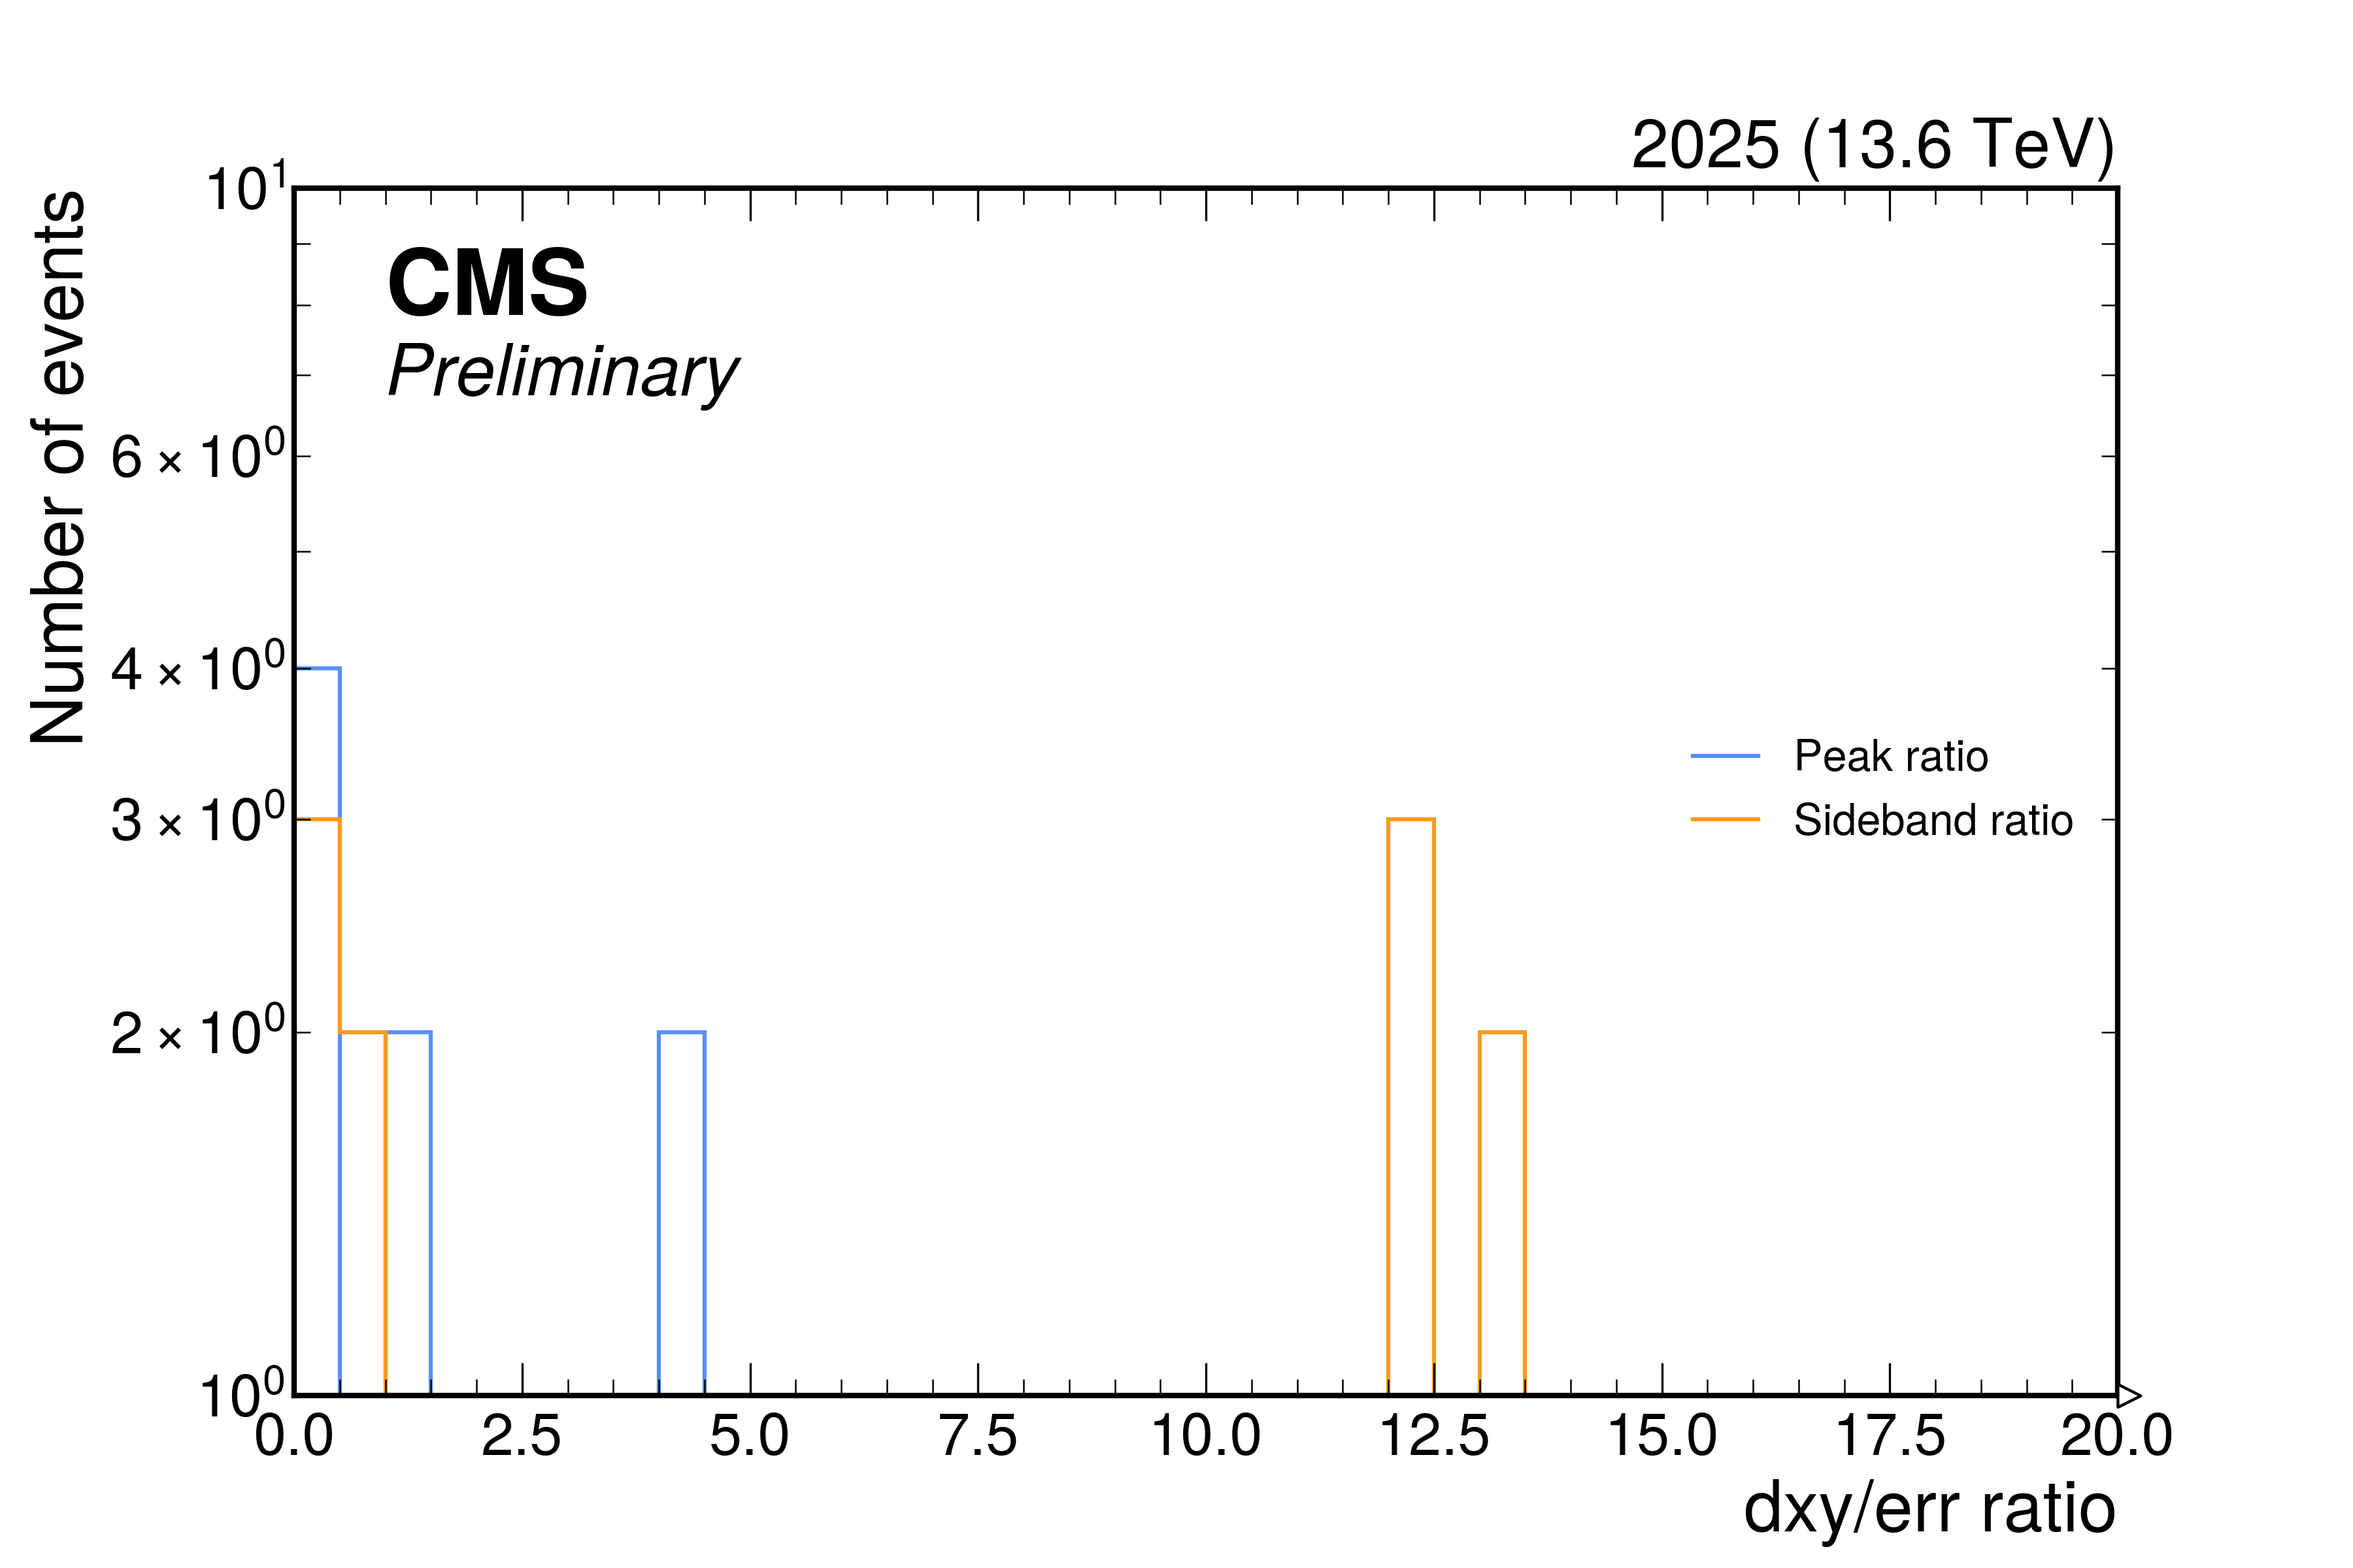
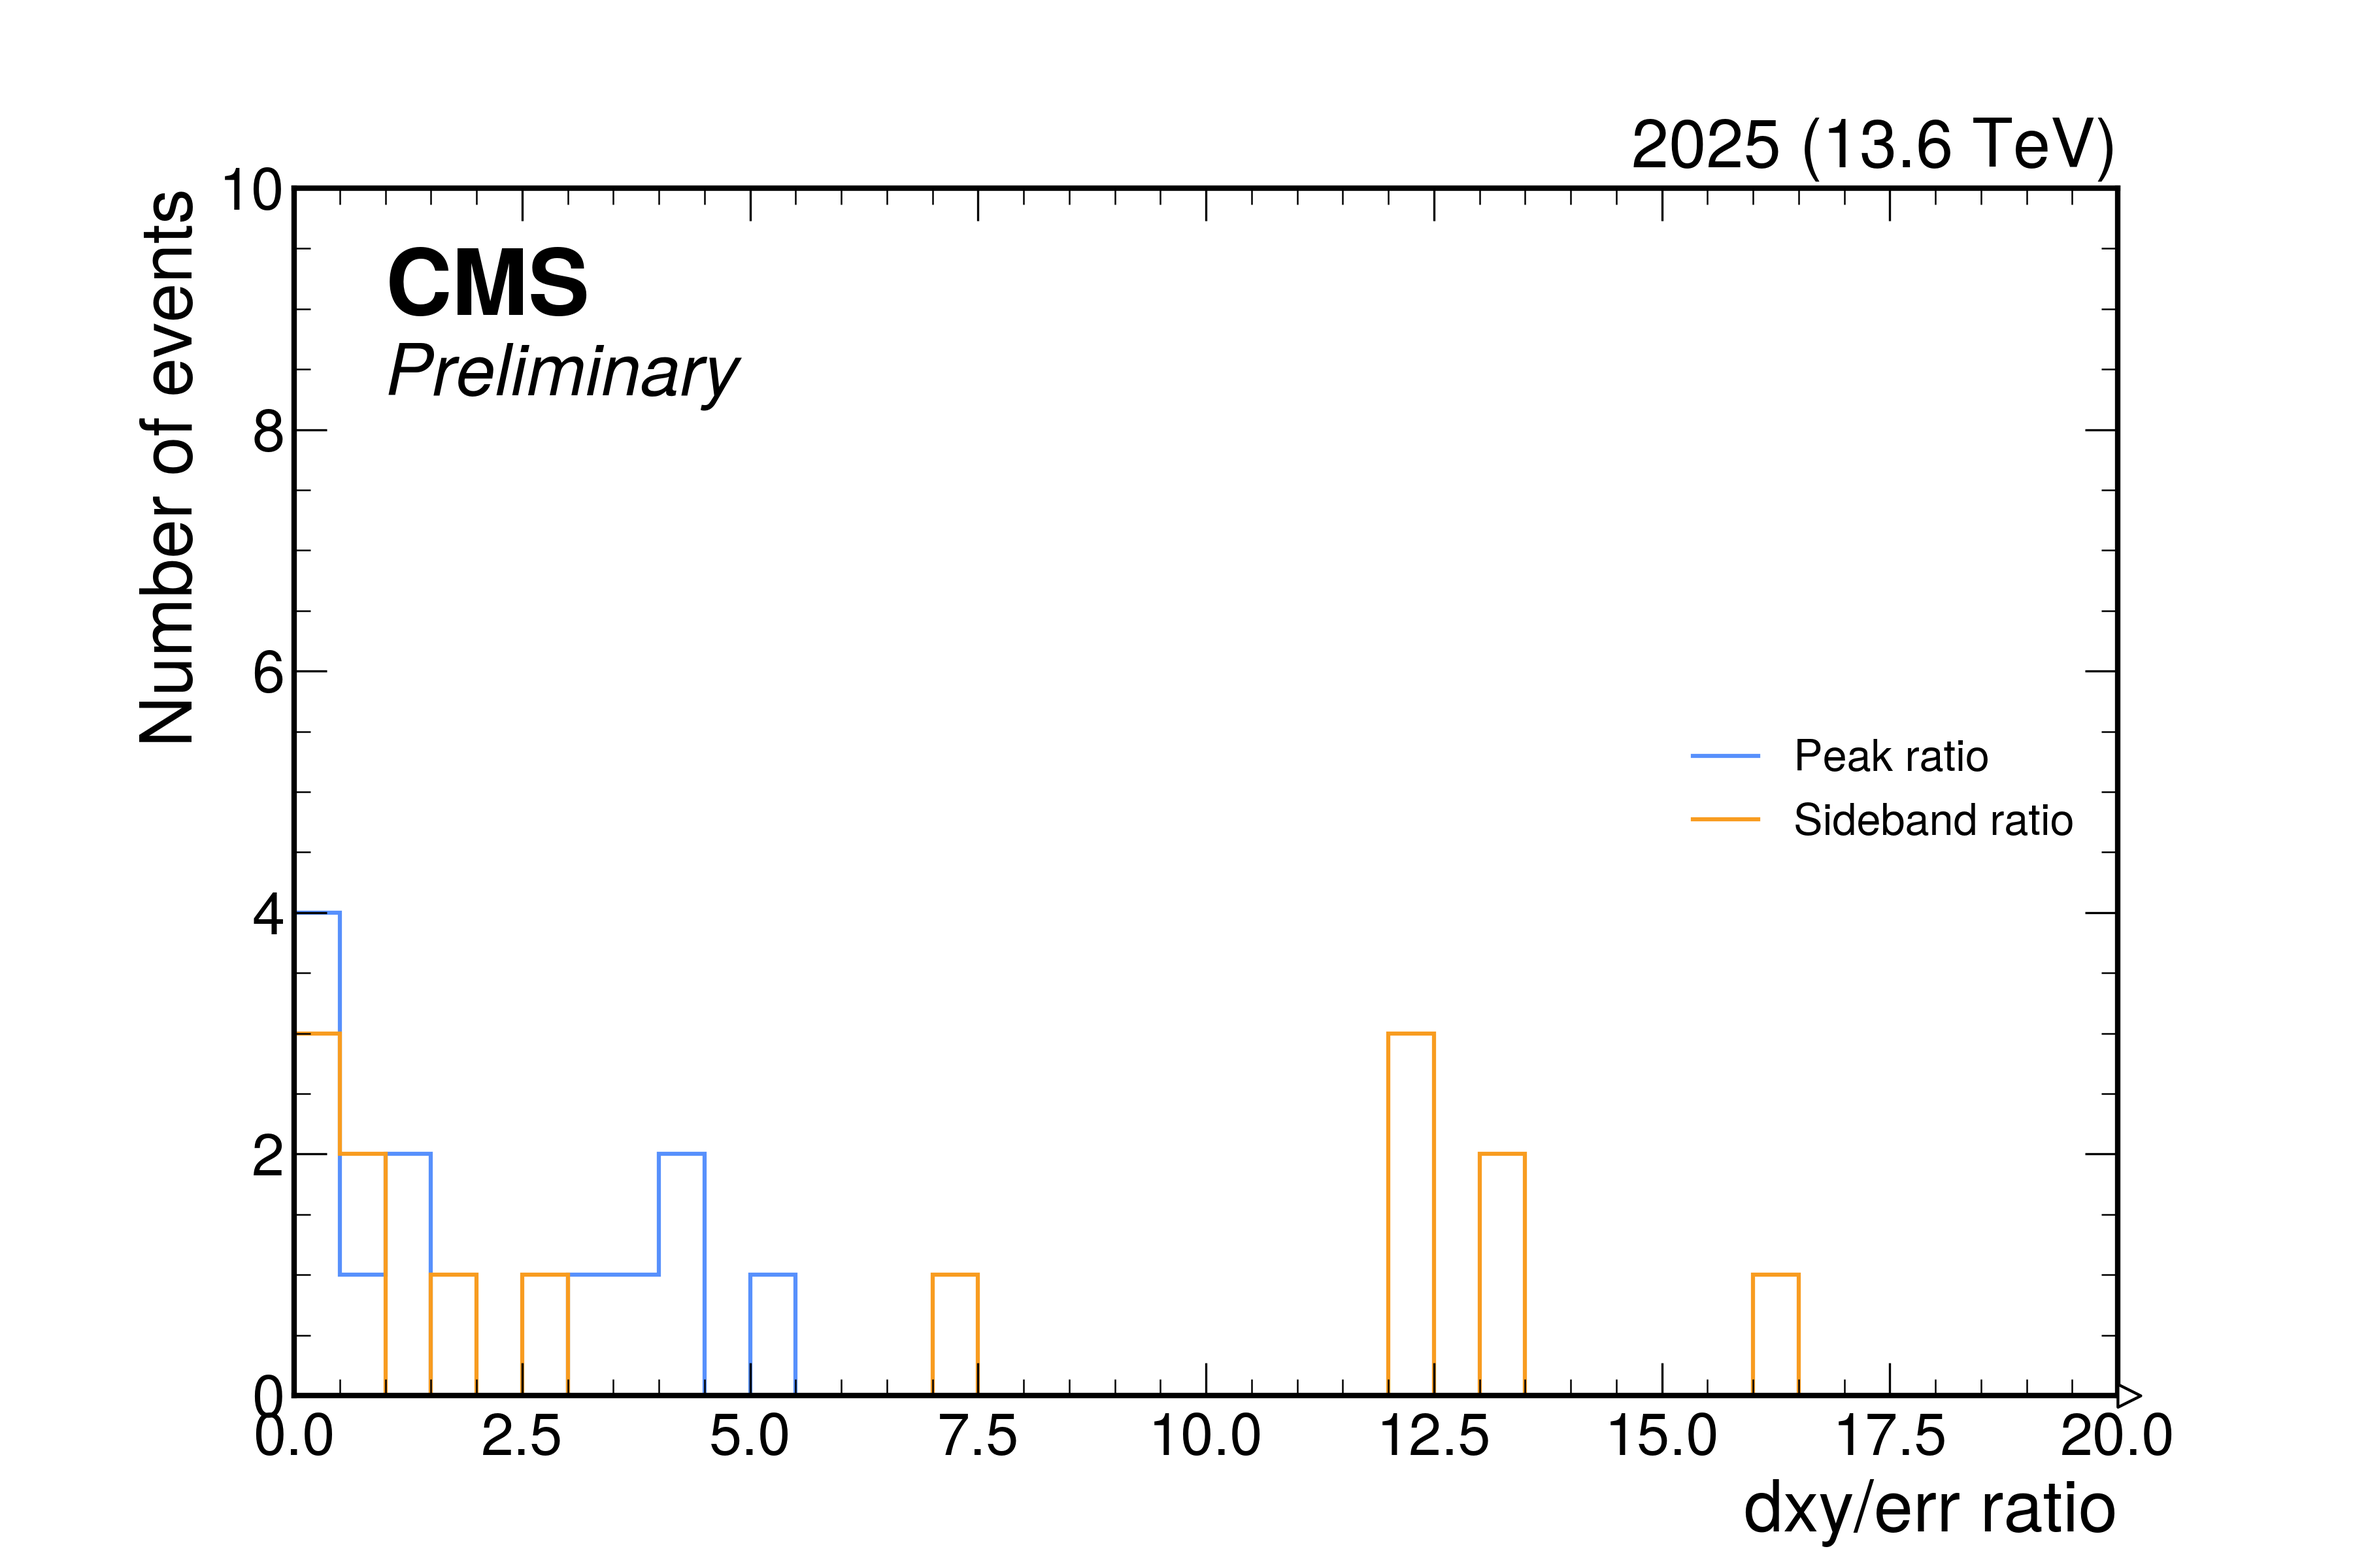
Change to lin scale

diff --git a/draw.py b/draw.py
@@ -196,7 +196,7 @@ for value in ratioValues:
     h_ratio_pk.fill(ratio_pk=value)
 hep.histplot(h_ratio_pk, ax=ax, label="Peak ratio", yerr=False)
 
-yMin = 1
+yMin = 0
 yMax = 10**np.ceil(np.log10(h_ratio_pk.values().max()))
 
 ratioValues = np.abs(sidebands_bin_values)/sidebands_err_values
@@ -213,8 +213,7 @@ print(sidebands_err_values)
 ax.set_ylim(yMin, yMax)
 ax.set_xlabel("dxy/err ratio")
 ax.set_ylabel("Number of events")
-ax.set_yscale("log")
 ax.legend(loc='center right', fontsize = 16, frameon = False, ncol=1)
 # ax.set_xscale("log")
-ax.set_yscale("log")
+ax.set_yscale("linear")
 fig.savefig("img/hist_dxyratios_%s.png"%(MUON), dpi=300)
